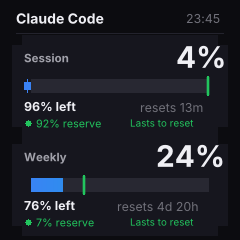
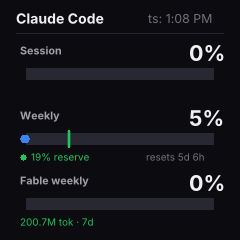
docs: rewrite README with new screenshots and --demo mode
- Rewrite README for the multi-screen setup: install/usage for all
  binaries, rotating-album workflow, config (screens/interval), launch
  agent, reachability skip, and the response cache.
- Explain Fable usage (weekly-limit % from the API's per-model `limits`
  array + token volume from local log scan) and that usage is fetched
  directly from the OAuth usage API via the keychain token, not a CLI.
- Add `--demo` to geekmagic-git/geekmagic-ci to render representative
  sample data (no gh/Docker needed), used for sanitized screenshots.
- Regenerate screenshots (stats, pr, vitals, ci, usage + hero montage);
  drop the removed disk screen's image.

diff --git a/src/pr.rs b/src/pr.rs
@@ -252,3 +252,29 @@ pub fn render_screen() -> RgbaImage {
         }
     }
 }
+
+/// Render with representative sample data — for docs/screenshots and previewing
+/// the layout without a GitHub connection.
+pub fn render_demo() -> RgbaImage {
+    let mk = |repo: &str, number: u64, title: &str| Pr {
+        number,
+        title: title.to_string(),
+        repository: Repo {
+            name_with_owner: repo.to_string(),
+        },
+        url: String::new(),
+        is_draft: false,
+        updated_at: String::new(),
+    };
+    let data = Dashboard {
+        authored: vec![
+            mk("acme/webapp", 128, "Add OAuth login flow"),
+            mk("acme/api", 77, "Fix rate limiter edge case"),
+            mk("acme/cli", 9, "Bump dependencies"),
+        ],
+        authored_total: 4,
+        review_count: 2,
+        ci: vec![CiStatus::Pass, CiStatus::Fail, CiStatus::None],
+    };
+    render(&data)
+}

diff --git a/src/ci.rs b/src/ci.rs
@@ -416,3 +416,28 @@ pub fn render_screen() -> RgbaImage {
         }
     }
 }
+
+/// Render with representative sample data — for docs/screenshots and previewing
+/// the layout without Docker/GitHub.
+pub fn render_demo() -> RgbaImage {
+    let run = |name: &str, branch: &str, elapsed_min: i64, running: bool| ActiveRun {
+        name: name.to_string(),
+        repo: "webapp".to_string(),
+        branch: branch.to_string(),
+        elapsed_min,
+        running,
+    };
+    let data = CiData {
+        containers_up: 2,
+        repos: vec!["webapp".to_string()],
+        runners_online: 2,
+        runners_busy: 2,
+        queued: 1,
+        active: vec![
+            run("CI", "main", 8, true),
+            run("E2E Tests", "feat/checkout", 6, true),
+            run("CI", "feat/search", 5, false),
+        ],
+    };
+    render(&data)
+}

diff --git a/src/ci_bin.rs b/src/ci_bin.rs
@@ -18,6 +18,10 @@ struct Args {
     /// Save rendered image to this path instead of uploading
     #[arg(short, long)]
     output: Option<String>,
+
+    /// Render representative sample data instead of querying Docker/GitHub
+    #[arg(long)]
+    demo: bool,
 }
 
 fn main() -> Result<()> {
@@ -38,7 +42,11 @@ fn main() -> Result<()> {
         Some(host)
     };
 
-    let img = ci::render_screen();
+    let img = if args.demo {
+        ci::render_demo()
+    } else {
+        ci::render_screen()
+    };
 
     if let Some(path) = &args.output {
         img.save(path)?;

diff --git a/src/git.rs b/src/git.rs
@@ -18,6 +18,10 @@ struct Args {
     /// Save rendered image to this path instead of uploading
     #[arg(short, long)]
     output: Option<String>,
+
+    /// Render representative sample data instead of querying GitHub
+    #[arg(long)]
+    demo: bool,
 }
 
 fn main() -> Result<()> {
@@ -38,7 +42,11 @@ fn main() -> Result<()> {
         Some(host)
     };
 
-    let img = pr::render_screen();
+    let img = if args.demo {
+        pr::render_demo()
+    } else {
+        pr::render_screen()
+    };
 
     if let Some(path) = &args.output {
         img.save(path)?;

diff --git a/README.md b/README.md
@@ -1,36 +1,44 @@
 # geekmagic-stats
 
-Push live Claude Code usage stats and macOS disk space to a [GeekMagic SmallTV](https://geekmagic.cc) display over your local network.
+Push live developer stats — Claude Code usage, GitHub PRs, CI runners, system vitals, and per-model token usage — to a [GeekMagic SmallTV](https://geekmagic.cc) display over your local network.
 
-![Stats and disk screens side by side](docs/screenshots/hero.png)
+![All screens](docs/screenshots/hero.png)
 
-The device auto-cycles between screens every 10 seconds in album mode.
+One command renders every enabled screen and pushes them to the device as an auto-cycling album. The rotator only pushes when the device is reachable, so leaving it running is a no-op when you're away.
 
 ## Screens
 
-### Claude Code Usage
+| | |
+|---|---|
+| ![Claude Code](docs/screenshots/stats.png) | **Claude Code** — Session (5h) and Weekly (7d) usage windows with pace markers, plus your **Fable** weekly-limit and token volume (see below). |
+| ![Pull Requests](docs/screenshots/pr.png) | **Pull Requests** — open PRs you authored and PRs awaiting your review, each with a live CI status dot (green pass / red fail / gray no-checks). |
+| ![System Vitals](docs/screenshots/vitals.png) | **System Vitals** — CPU load, memory pressure, and battery, color-coded by severity, with uptime. |
+| ![CI Runners](docs/screenshots/ci.png) | **CI Runners** — self-hosted GitHub Actions runners running locally in Docker: online/busy/queued counts and the branches currently under test. |
+| ![Model Usage](docs/screenshots/usage.png) | **Model Usage** — Fable weekly-limit gauge plus token volume by model, scanned from your local Claude Code logs. |
 
-![Claude Code stats screen](docs/screenshots/stats.png)
+*(The Pull Requests and CI Runners shots above use sample data via `--demo`.)*
 
-- **Session** (5-hour) and **Weekly** (7-day) usage windows
-- Gradient progress bars with pace markers showing expected vs actual usage
-- Pace indicator: whether your current rate lasts to reset, or an ETA when it runs out
-- Reset countdown and remaining percentage
-- Local timestamp
+## Fable 5 usage
 
-### Disk Usage
+The Claude usage API doesn't expose a dedicated Fable rate-limit window in its legacy fields, but it now reports **per-model weekly limits** in a `limits` array. This tool reads that array and surfaces your **Fable weekly-limit percentage** — the same "how close am I to my weekly cap" number for the Fable model — on both the Claude Code screen and the Model Usage screen.
 
-![Disk usage screen](docs/screenshots/disk.png)
+Because the API only gives a *percentage against the limit*, actual **token volume** per model (including Fable) is computed separately by scanning your local Claude Code session logs (`~/.claude/projects/**/*.jsonl`) over the last 7 days. So you get both: the weekly-limit gauge (from the API) and the raw token counts (from your logs).
 
-- Anti-aliased donut chart with gradient coloring
-- Free space percentage in the center
-- Used/free breakdown in GB
+## How usage is fetched (API, not the CLI)
+
+Earlier versions shelled out to the `claude-code-stats` crate. This version talks to the Anthropic **OAuth usage API directly** (`https://api.anthropic.com/api/oauth/usage`):
+
+- It reads your existing **Claude Code OAuth token from the macOS keychain** (falling back to `~/.claude/.credentials.json`). No API key is stored, entered, or committed anywhere — it reuses the credential Claude Code already manages.
+- Responses are **cached** to `~/.cache/geekmagic-stats/usage.json` for 60s. If a fetch fails (e.g. a transient `429`), the last cached response is reused so the screen never blanks.
+- If no credential is found or the API errors with no cache, the screen shows a clear "Not connected" card instead of failing.
 
 ## Requirements
 
-- **GeekMagic SmallTV Ultra** (240x240, tested on firmware Ultra-V9.0.43)
-- **[claude-code-stats](https://crates.io/crates/claude-code-stats)** crate (used as an in-process Rust library)
-- Rust toolchain
+- **GeekMagic SmallTV Ultra** (240×240, tested on firmware Ultra-V9.0.43) on the same LAN
+- **macOS** — uses the keychain, `scutil`, `sysctl`, `pmset`, and `memory_pressure`
+- **Rust toolchain**
+- Signed into **Claude Code** (the usage screen reads its keychain token)
+- Optional: **[`gh`](https://cli.github.com) CLI** for the PR and CI screens; **Docker** for the CI Runners screen
 
 ## Install
 
@@ -38,58 +46,73 @@ The device auto-cycles between screens every 10 seconds in album mode.
 cargo install --path .
 ```
 
-This installs two binaries to `~/.cargo/bin/`:
-- `geekmagic-stats` — stats screen (+ optional disk)
-- `geekmagic-disk` — disk screen standalone
+Installs these binaries to `~/.cargo/bin/`:
+
+| Binary | Screen |
+|---|---|
+| `geekmagic-all` | Renders all enabled screens and pushes them as a rotating album |
+| `geekmagic-stats` | Claude Code usage (Session / Weekly / Fable weekly) |
+| `geekmagic-git` | Pull Requests |
+| `geekmagic-sys` | System vitals |
+| `geekmagic-ci` | CI runners |
+| `geekmagic-usage` | Per-model token usage |
 
 ## Usage
 
-### One-shot push
+### Rotating album (recommended)
 
 ```sh
-# Push stats screen only (uses host from config)
-geekmagic-stats
+# Render every enabled screen and push as an auto-cycling album
+geekmagic-all --host 192.168.1.50
 
-# Push stats + disk as auto-cycling album
-geekmagic-stats --with-disk
+# Pick a subset, in order
+geekmagic-all --host 192.168.1.50 --screens stats,ci
 
-# Custom device IP
-geekmagic-stats --host 192.168.1.50 --with-disk
+# Refresh the data every 60s (device cycles screens on its own)
+geekmagic-all --host 192.168.1.50 --daemon 60
 
-# Save to file instead of pushing
-geekmagic-stats --output preview.png
+# Save all screens as PNGs instead of pushing
+geekmagic-all --output-dir ./preview
 ```
+
+### Individual screens
+
+```sh
+geekmagic-stats --host 192.168.1.50
+geekmagic-git   --host 192.168.1.50
+geekmagic-sys   --host 192.168.1.50
+geekmagic-ci    --host 192.168.1.50
+geekmagic-usage --host 192.168.1.50
+
+# Preview any screen to a file (no device needed)
+geekmagic-stats --output preview.png
+
+# Preview PR / CI layouts with sample data (no gh/Docker needed)
+geekmagic-git --demo --output pr.png
+geekmagic-ci  --demo --output ci.png
+```
+
+Every binary probes the device first and **skips the push if it's unreachable** — a built-in "am I home?" check — so a running daemon quietly no-ops when you're away.
 
 ### Configuration
 
-By default, config is read from `~/.config/geekmagic-stats/config.toml`.
+Config is read from `~/.config/geekmagic-stats/config.toml`:
 
 ```toml
-host = "10.0.1.102"
-daemon = 300
-with_disk = true
+host = "192.168.1.50"
+
+# Screens to rotate through, in order.
+# Available: stats, git, sys, ci, usage
+screens = ["stats", "git", "sys", "ci"]
+
+# Seconds each screen shows on the device before advancing
+interval = 10
+
+# Optional: refresh interval for daemon mode (seconds)
+daemon = 60
 ```
 
-`host` is required for uploads unless you only use `--output`.
-
-You can override the path with `--config /path/to/config.toml`.
-
-Precedence order:
-- CLI flags
-- config file
-- built-in defaults (`with_disk = false`, no default daemon)
-
-`geekmagic-disk` supports the same config file and `--config` flag.
-
-### Daemon mode
-
-Push updated screens every 5 minutes:
-
-```sh
-geekmagic-stats -d 300 --with-disk
-```
-
-The interval (in seconds) has a minimum of 10s to avoid flooding the device.
+Precedence: CLI flags → config file → built-in defaults. Override the path with `--config /path/to/config.toml`. `host` is required for uploads unless you use `--output`/`--output-dir`.
 
 ### Run on startup (macOS)
 
@@ -104,71 +127,77 @@ Create `~/Library/LaunchAgents/com.geekmagic.stats.plist`:
     <string>com.geekmagic.stats</string>
     <key>ProgramArguments</key>
     <array>
-        <string>/Users/YOU/.cargo/bin/geekmagic-stats</string>
-        <string>--config</string>
-        <string>/Users/YOU/.config/geekmagic-stats/config.toml</string>
+        <string>/Users/YOU/.cargo/bin/geekmagic-all</string>
+        <string>--daemon</string>
+        <string>60</string>
     </array>
+    <key>RunAtLoad</key>
+    <true/>
     <key>KeepAlive</key>
     <true/>
+    <!-- launchd gives a minimal PATH; the CI/vitals screens need gh, docker, etc. -->
+    <key>EnvironmentVariables</key>
+    <dict>
+        <key>PATH</key>
+        <string>/opt/homebrew/bin:/usr/local/bin:/usr/bin:/bin:/usr/sbin:/sbin</string>
+    </dict>
     <key>StandardOutPath</key>
-    <string>/tmp/geekmagic-stats.log</string>
+    <string>/Users/YOU/Library/Logs/geekmagic.log</string>
     <key>StandardErrorPath</key>
-    <string>/tmp/geekmagic-stats.log</string>
+    <string>/Users/YOU/Library/Logs/geekmagic.log</string>
 </dict>
 </plist>
 ```
 
-Then load it:
-
 ```sh
-launchctl load ~/Library/LaunchAgents/com.geekmagic.stats.plist
-```
+# Start
+launchctl bootstrap gui/$(id -u) ~/Library/LaunchAgents/com.geekmagic.stats.plist
 
-Manage:
-
-```sh
-# View logs
-tail -f /tmp/geekmagic-stats.log
-
-# Stop (auto-restarts due to KeepAlive)
-launchctl stop com.geekmagic.stats
-
-# Disable completely
-launchctl unload ~/Library/LaunchAgents/com.geekmagic.stats.plist
+# Watch logs
+tail -f ~/Library/Logs/geekmagic.log
 
 # Restart after rebuilding
 cargo install --path . && launchctl kickstart -k gui/$(id -u)/com.geekmagic.stats
+
+# Stop (KeepAlive means a plain kill just respawns it)
+launchctl bootout gui/$(id -u)/com.geekmagic.stats
 ```
+
+The agent runs while you're logged in and, thanks to the reachability check, only pushes when the device is on your network.
 
 ## How it works
 
-1. Uses the `claude-code-stats` crate to collect current API usage as JSON
-2. Computes pace locally (rate of usage vs time remaining) if not provided by the API
-3. Renders 240x240 dark-themed images using `image` + `imageproc` + `ab_glyph` with the Inter font
-4. Encodes to JPEG and uploads via multipart POST to the device's HTTP API
-5. Sets album mode with autoplay so the device cycles between screens
+1. Each screen gathers its data (usage API, `gh`, Docker, `sysctl`/`pmset`, or a log scan).
+2. Screens render to 240×240 dark-themed images via `image` + `imageproc` + `ab_glyph` with the Inter font, from a shared `draw` module.
+3. Images are JPEG-encoded and uploaded via multipart POST to the device's HTTP API.
+4. The rotator clears the device's image folder and re-uploads the set, then enables Photo Album autoplay so the device cycles through them.
 
-The device runs a plain HTTP server with no authentication. Images are uploaded to `/doUpload?dir=/image/` and displayed by setting theme 3 (Photo Album).
+The device runs a plain HTTP server with no authentication. Images are uploaded to `/doUpload?dir=/image/` and shown by setting theme 3 (Photo Album).
 
 ## Project structure
 
 ```
 src/
-  config.rs      Loads config from ~/.config/geekmagic-stats/config.toml
-  main.rs        CLI entry point, daemon loop
-  stats.rs       Calls claude-code-stats crate, parses JSON, computes pace
-  render.rs      Renders the stats screen (progress bars, text)
-  disk.rs        Standalone disk usage binary
-  disk_render.rs Renders the disk donut chart
-  upload.rs      JPEG encoding, device upload, album management
-  lib.rs         Shared library (upload + disk_render)
+  lib.rs         Shared library (geekmagic_common)
+  draw.rs        Shared canvas/colors/fonts/bars/text primitives
+  config.rs      Loads ~/.config/geekmagic-stats/config.toml
+  upload.rs      JPEG encode, device upload, album mode, reachability probe
+  rotate.rs      geekmagic-all: render enabled screens, push as album
+  stats.rs       OAuth usage API client + on-disk cache
+  render.rs      Claude Code screen (Session / Weekly / Fable weekly)
+  pr.rs          Pull Requests screen (via gh)
+  sysinfo.rs     System vitals screen
+  ci.rs          CI runners screen (Docker + GitHub API)
+  usage.rs       Per-model token usage (local log scan)
+  main.rs, git.rs, sys.rs, ci_bin.rs, usage_bin.rs   Thin binaries
 fonts/
-  Inter-Regular.ttf
-  Inter-Bold.ttf
+  Inter-Regular.ttf, Inter-Bold.ttf
 ```
 
 ## Device compatibility
 
-Built for the GeekMagic SmallTV Ultra (240x240 LCD). The device firmware has some HTTP quirks (duplicate `Content-Length` headers, data after `Connection: close`) which are handled gracefully.
+Built for the GeekMagic SmallTV Ultra (240×240 LCD). The firmware has some HTTP quirks (duplicate `Content-Length` headers, data after `Connection: close`) which are handled gracefully. Other GeekMagic models that support the same HTTP API and Photo Album theme should work — the SmallTV Pro uses theme 4 instead of 3 and has a 128×128 display.
 
-Should work with other GeekMagic models that support the same HTTP API and Photo Album theme — the SmallTV Pro uses theme 4 instead of 3 and has a 128x128 display.
+## Credits
+
+Forked from [jimmystridh/geekmagic-stats](https://github.com/jimmystridh/geekmagic-stats).